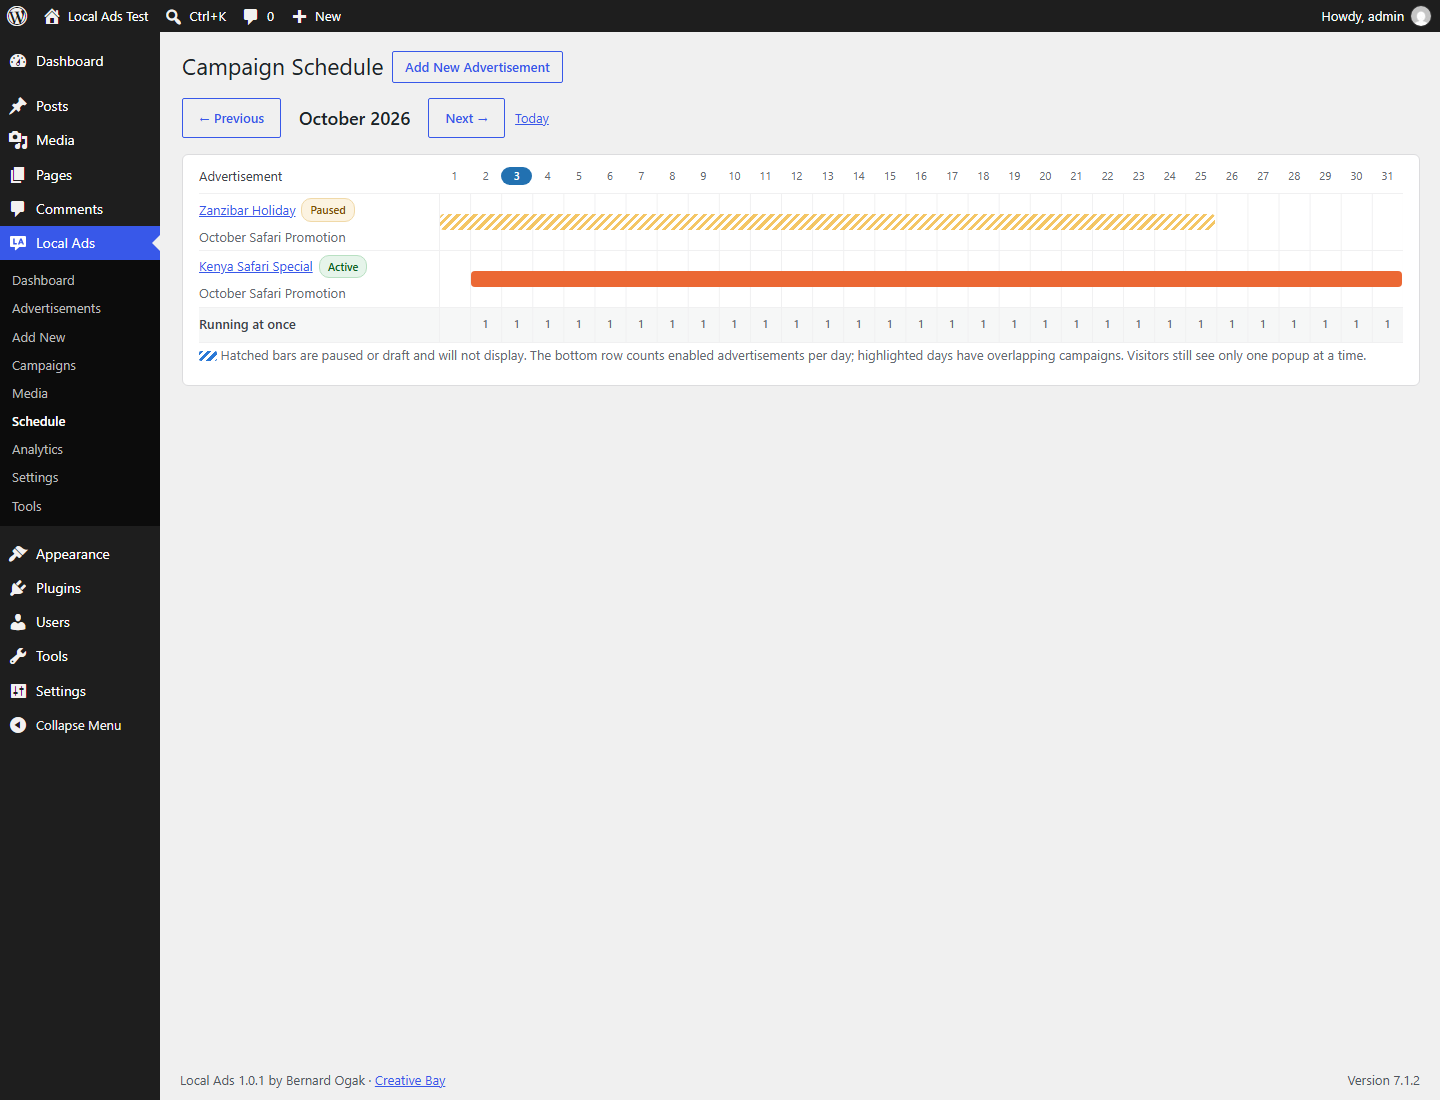
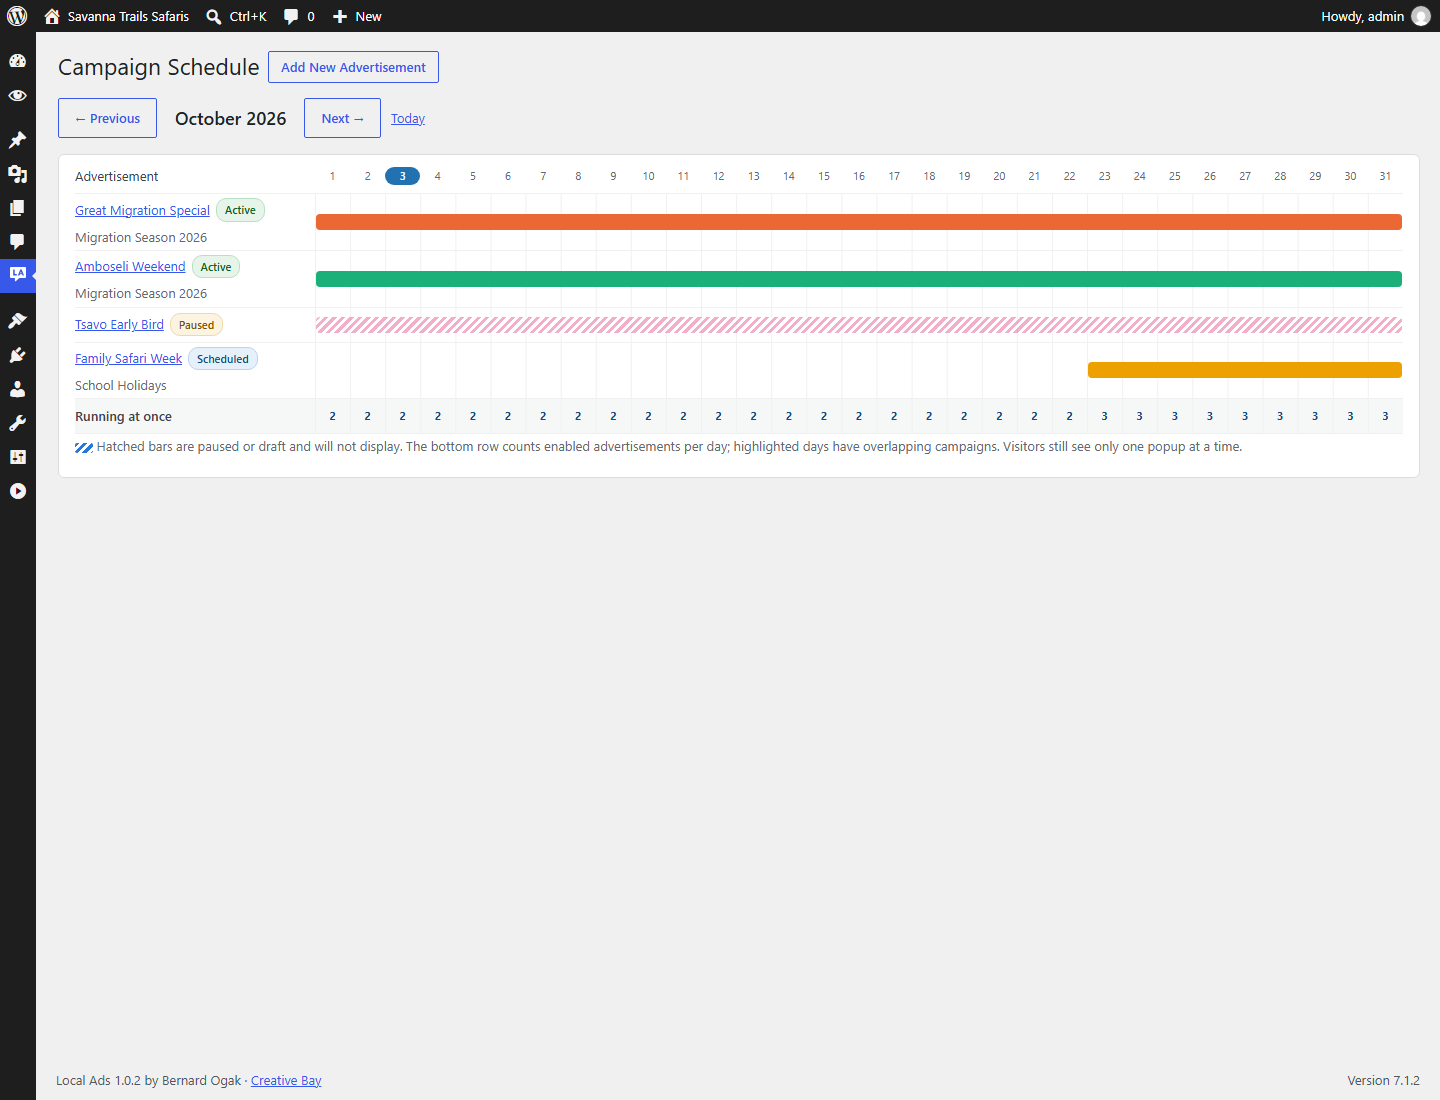
feat: updates from GitHub releases (1.0.2)
Adds an Update URI header and Local_Ads_Updater so new GitHub releases
appear on the WordPress update screens with one-click and automatic
updates. readme.txt gains an External services section; the check sends
no site, ad or visitor data.

Also fixes the POT header version and recaptures the screenshots from a
1.0.2 test install.

Changed region(s): [[0.0, 0.0, 0.9688, 1.0]]

diff --git a/public/js/public.js b/public/js/public.js
@@ -695,7 +695,7 @@
 	}
 
 	window.LocalAds = {
-		version: '1.0.1',
+		version: '1.0.2',
 		/**
 		 * Admin preview: renders immediately, never tracks, never stores visitor state.
 		 */

diff --git a/includes/class-local-ads-updater.php b/includes/class-local-ads-updater.php
@@ -1,0 +1,157 @@
+<?php
+/**
+ * Updates from GitHub Releases.
+ *
+ * @package LocalAds
+ */
+
+defined( 'ABSPATH' ) || exit;
+
+/**
+ * Offers new GitHub releases through the normal WordPress update screens.
+ *
+ * The plugin header's "Update URI" stops WordPress from asking WordPress.org about this plugin and
+ * makes core call the update_plugins_github.com filter instead. Only the release version and the
+ * attached local-ads.zip are read; no site data is sent to GitHub.
+ */
+class Local_Ads_Updater {
+
+	const REPO  = 'Bernard-Ogak/local-ad';
+	const ASSET = 'local-ads.zip';
+	const CACHE = 'local_ads_github_release';
+
+	const CACHE_SECONDS       = 43200;
+	const RETRY_AFTER_FAILURE = 3600;
+
+	/**
+	 * Hooks.
+	 */
+	public static function init() {
+		add_filter( 'update_plugins_github.com', array( __CLASS__, 'check' ), 10, 3 );
+		add_filter( 'plugins_api', array( __CLASS__, 'details' ), 20, 3 );
+	}
+
+	/**
+	 * Tells WordPress about the latest release (core compares the versions).
+	 *
+	 * @param array|false $update      Update data from earlier callbacks.
+	 * @param array       $plugin_data Plugin headers.
+	 * @param string      $plugin_file Plugin basename.
+	 * @return array|false
+	 */
+	public static function check( $update, $plugin_data, $plugin_file ) {
+		if ( LOCAL_ADS_BASENAME !== $plugin_file ) {
+			return $update;
+		}
+		$release = self::latest();
+		if ( ! $release ) {
+			return $update;
+		}
+		return array(
+			'id'      => ! empty( $plugin_data['UpdateURI'] ) ? $plugin_data['UpdateURI'] : 'https://github.com/' . self::REPO,
+			'slug'    => dirname( $plugin_file ),
+			'version' => $release['version'],
+			'url'     => $release['url'],
+			'package' => $release['package'],
+		);
+	}
+
+	/**
+	 * Fills the "View details" window for this plugin.
+	 *
+	 * @param false|object|array $result Result from earlier callbacks.
+	 * @param string             $action plugins_api action.
+	 * @param object             $args   Request arguments.
+	 * @return false|object|array
+	 */
+	public static function details( $result, $action, $args ) {
+		if ( 'plugin_information' !== $action || ! isset( $args->slug ) || dirname( LOCAL_ADS_BASENAME ) !== $args->slug ) {
+			return $result;
+		}
+		$release = self::latest();
+		if ( ! $release ) {
+			return $result;
+		}
+		return (object) array(
+			'name'          => 'Local Ads by Bernard',
+			'slug'          => $args->slug,
+			'version'       => $release['version'],
+			'author'        => '<a href="https://www.creativebay.co.ke">Bernard Ogak (Creative Bay)</a>',
+			'homepage'      => 'https://github.com/' . self::REPO,
+			'download_link' => $release['package'],
+			'last_updated'  => $release['published'],
+			'sections'      => array(
+				'changelog' => '' !== $release['notes'] ? wpautop( esc_html( $release['notes'] ) ) : '',
+			),
+		);
+	}
+
+	/**
+	 * The latest published release with the plugin ZIP attached, cached for 12 hours.
+	 *
+	 * @return array|null { version, url, package, notes, published }
+	 */
+	public static function latest() {
+		/**
+		 * Whether to check GitHub for new releases.
+		 *
+		 * @param bool $enabled Default true.
+		 */
+		if ( ! apply_filters( 'local_ads_github_updates', true ) ) {
+			return null;
+		}
+
+		// "Check again" on Dashboard → Updates skips the cache.
+		$force  = isset( $_GET['force-check'] ) && current_user_can( 'update_plugins' ); // phpcs:ignore WordPress.Security.NonceVerification.Recommended
+		$cached = $force ? false : get_site_transient( self::CACHE );
+		if ( is_array( $cached ) ) {
+			return isset( $cached['version'] ) ? $cached : null;
+		}
+
+		$release = self::fetch();
+		set_site_transient( self::CACHE, $release ? $release : array( 'failed' => time() ), $release ? self::CACHE_SECONDS : self::RETRY_AFTER_FAILURE );
+		return $release;
+	}
+
+	/**
+	 * Reads the latest release from the GitHub API.
+	 *
+	 * @return array|null
+	 */
+	private static function fetch() {
+		$response = wp_remote_get(
+			'https://api.github.com/repos/' . self::REPO . '/releases/latest',
+			array(
+				'timeout' => 10,
+				'headers' => array(
+					'Accept'     => 'application/vnd.github+json',
+					'User-Agent' => 'LocalAds/' . LOCAL_ADS_VERSION,
+				),
+			)
+		);
+		if ( is_wp_error( $response ) || 200 !== (int) wp_remote_retrieve_response_code( $response ) ) {
+			return null;
+		}
+		$data = json_decode( (string) wp_remote_retrieve_body( $response ), true );
+		if ( ! is_array( $data ) ) {
+			return null;
+		}
+		$version = ltrim( isset( $data['tag_name'] ) ? (string) $data['tag_name'] : '', 'vV' );
+		if ( ! preg_match( '/^\d+(\.\d+){1,3}$/', $version ) ) {
+			return null;
+		}
+		$assets = isset( $data['assets'] ) && is_array( $data['assets'] ) ? $data['assets'] : array();
+		foreach ( $assets as $asset ) {
+			if ( is_array( $asset ) && isset( $asset['name'], $asset['browser_download_url'] ) && self::ASSET === $asset['name'] && 0 === strpos( (string) $asset['browser_download_url'], 'https://github.com/' ) ) {
+				return array(
+					'version'   => $version,
+					'url'       => esc_url_raw( isset( $data['html_url'] ) ? (string) $data['html_url'] : 'https://github.com/' . self::REPO . '/releases' ),
+					'package'   => esc_url_raw( (string) $asset['browser_download_url'] ),
+					'notes'     => isset( $data['body'] ) ? (string) $data['body'] : '',
+					'published' => isset( $data['published_at'] ) ? (string) $data['published_at'] : '',
+				);
+			}
+		}
+		return null;
+	}
+}

diff --git a/local-ads.php b/local-ads.php
@@ -2,10 +2,11 @@
 /**
  * Plugin Name:       Local Ads by Bernard
  * Description:       A locally hosted WordPress advertisement management, scheduling and analytics platform.
- * Version:           1.0.1
+ * Version:           1.0.2
  * Requires at least: 5.8
  * Requires PHP:      7.4
  * Plugin URI:        https://github.com/Bernard-Ogak/local-ad
+ * Update URI:        https://github.com/Bernard-Ogak/local-ad
  * Author:            Bernard Ogak (Creative Bay)
  * Author URI:        https://www.creativebay.co.ke
  * License:           GPL-2.0-or-later
@@ -18,7 +19,7 @@
 
 defined( 'ABSPATH' ) || exit;
 
-define( 'LOCAL_ADS_VERSION', '1.0.1' );
+define( 'LOCAL_ADS_VERSION', '1.0.2' );
 define( 'LOCAL_ADS_DB_VERSION', '1.0.0' );
 define( 'LOCAL_ADS_FILE', __FILE__ );
 define( 'LOCAL_ADS_PATH', plugin_dir_path( __FILE__ ) );
@@ -36,6 +37,7 @@ require_once LOCAL_ADS_PATH . 'includes/class-local-ads-analytics.php';
 require_once LOCAL_ADS_PATH . 'includes/class-local-ads-display.php';
 require_once LOCAL_ADS_PATH . 'includes/class-local-ads-cron.php';
 require_once LOCAL_ADS_PATH . 'includes/class-local-ads-activator.php';
+require_once LOCAL_ADS_PATH . 'includes/class-local-ads-updater.php';
 require_once LOCAL_ADS_PATH . 'includes/class-local-ads.php';
 
 if ( is_admin() ) {

diff --git a/uninstall.php b/uninstall.php
@@ -24,6 +24,7 @@ require_once LOCAL_ADS_PATH . 'includes/class-local-ads-media.php';
  */
 function local_ads_uninstall_site() {
 	wp_clear_scheduled_hook( 'local_ads_maintenance' );
+	delete_site_transient( 'local_ads_github_release' ); // Cached GitHub release, not user data.
 
 	$settings = get_option( 'local_ads_settings', array() );
 	if ( empty( $settings['delete_data'] ) ) {

diff --git a/includes/class-local-ads.php b/includes/class-local-ads.php
@@ -53,6 +53,7 @@ final class Local_Ads {
 		Local_Ads_Cron::init();
 		Local_Ads_Analytics::init();
 		Local_Ads_Display::init();
+		Local_Ads_Updater::init();
 
 		if ( is_admin() && class_exists( 'Local_Ads_Admin' ) ) {
 			Local_Ads_Admin::init();

diff --git a/CHANGELOG.md b/CHANGELOG.md
@@ -3,14 +3,20 @@
 All notable changes to Local Ads by Bernard are documented here.
 The format follows [Keep a Changelog](https://keepachangelog.com/en/1.1.0/) and the project uses [Semantic Versioning](https://semver.org/).
 
-## [Unreleased]
+## [1.0.2] - 2026-10-03
+
+### Added
+
+- Updates from GitHub Releases. The new `Update URI` header makes WordPress skip WordPress.org for this plugin, and `Local_Ads_Updater` answers the `update_plugins_github.com` filter with the latest release of `Bernard-Ogak/local-ad` that has `local-ads.zip` attached. Updates then appear on **Dashboard → Updates** and the Plugins screen, with one-click and automatic updates and release notes under **View details**. The release is cached for 12 hours (1 hour after a failed check) and **Check again** refreshes it. Filter `local_ads_github_updates` (return `false`) turns the check off. No site data is sent.
 
 ### Fixed
 
-- `languages/local-ads.pot` header now reports `Project-Id-Version: Local Ads by Bernard 1.0.1` (it still said 1.0.0). 1.0.1 added no translatable strings, so the template's strings are unchanged.
+- `languages/local-ads.pot` header now reports the current version (it still said 1.0.0). No translatable strings were added since 1.0.0, so the template's strings are unchanged.
 
 ### Documentation
 
+- readme.txt: new External services section describing the GitHub update check; the description no longer says nothing is sent to an outside service.
+- Updated screenshot and documentation: the admin screenshots were recaptured from a running 1.0.2 install.
 - Recaptured the README screenshots (dashboard, edit advertisement, analytics, campaign schedule) from a running 1.0.1 install. The popup screenshot was recaptured too and is unchanged, because 1.0.1 did not change the popup's appearance.
 - Developer guide: added the checks run against 1.0.1.
 

diff --git a/docs/developer-guide.md b/docs/developer-guide.md
@@ -278,10 +278,16 @@ This creates `dist/local-ads.zip` containing one `local-ads/` folder with forwar
 
 Release steps:
 
-1. Bump `Version` in `local-ads.php`, `LOCAL_ADS_VERSION`, `Stable tag` in `readme.txt` and the version in `public.js`.
+1. Bump `Version` in `local-ads.php`, `LOCAL_ADS_VERSION`, `Stable tag` in `readme.txt`, the version in `public.js` and the `Project-Id-Version` in `languages/local-ads.pot`.
 2. Add a `CHANGELOG.md` entry.
 3. Build the ZIP.
-4. Tag `vX.Y.Z` and attach the ZIP to a GitHub release.
+4. Tag `vX.Y.Z` and attach the ZIP to a GitHub release. The asset must be named exactly `local-ads.zip`: installed sites only offer releases that have it.
+
+### Updates from GitHub
+
+`Local_Ads_Updater` (`includes/class-local-ads-updater.php`) delivers releases to installed sites. The `Update URI: https://github.com/Bernard-Ogak/local-ad` header makes WordPress (5.8+) skip WordPress.org for this plugin and call the `update_plugins_github.com` filter instead; the updater answers it, for its own basename only, with the version from the latest release's `tag_name` (leading `v` removed) and the URL of its `local-ads.zip` asset. Core compares versions, so an equal version is listed as up to date and automatic updates can be switched on. `plugins_api` is filtered for the slug `local-ads` to show the release notes under **View details**.
+
+The release is read from `https://api.github.com/repos/Bernard-Ogak/local-ad/releases/latest` (drafts and pre-releases are never returned) and cached in the site transient `local_ads_github_release` for 12 hours, or 1 hour after a failure. `?force-check=1` from **Check again** bypasses the cache. Return `false` from `local_ads_github_updates` to disable the check.
 
 ## Testing checklist
 

diff --git a/README.md b/README.md
@@ -12,7 +12,7 @@
   <a href="LICENSE"><img src="https://img.shields.io/badge/license-GPL--2.0--or--later-blue.svg" alt="License: GPL-2.0-or-later"></a>
   <img src="https://img.shields.io/badge/WordPress-5.8%2B-21759b.svg" alt="WordPress 5.8+">
   <img src="https://img.shields.io/badge/PHP-7.4%2B-777bb4.svg" alt="PHP 7.4+">
-  <img src="https://img.shields.io/badge/version-1.0.1-green.svg" alt="Version 1.0.1">
+  <img src="https://img.shields.io/badge/version-1.0.2-green.svg" alt="Version 1.0.2">
 </p>
 
 <p align="center">
@@ -22,7 +22,7 @@
 
 ---
 
-Local Ads lets you sell and run your own advertisements directly from the WordPress dashboard. Images are stored on your server, statistics are stored in your database, and nothing is sent to an outside service.
+Local Ads lets you sell and run your own advertisements directly from the WordPress dashboard. Images are stored on your server and statistics in your database. No ad, visitor or statistics data is sent anywhere; the only outside request is a check of GitHub for new versions, so updates appear on the WordPress update screens.
 
 ![Popup advertisement on a page](docs/images/popup-desktop.png)
 

diff --git a/docs/user-guide.md b/docs/user-guide.md
@@ -269,6 +269,14 @@ Local Ads stores no IP addresses, user agents, names, email addresses or browsin
 
 Frequency control uses the visitor's own browser storage (`sessionStorage` and `localStorage`, keys starting `localAds:`). This data never leaves the browser. You may wish to mention it in your privacy policy.
 
+The only outside request Local Ads makes is the update check described under [Updates](#updates).
+
+## Updates
+
+New versions are published on GitHub. Local Ads checks for them about twice a day and shows them on **Dashboard → Updates** and the **Plugins** screen like any other plugin, so you can update with one click or turn on automatic updates. **View details** shows the release notes. Click **Check again** on **Dashboard → Updates** to look straight away.
+
+The check sends no site, ad or visitor data. To turn it off, add `add_filter( 'local_ads_github_updates', '__return_false' );` to a small plugin or your theme's `functions.php`.
+
 ## Uninstalling
 
 - **Deactivate** stops background maintenance and keeps everything.
